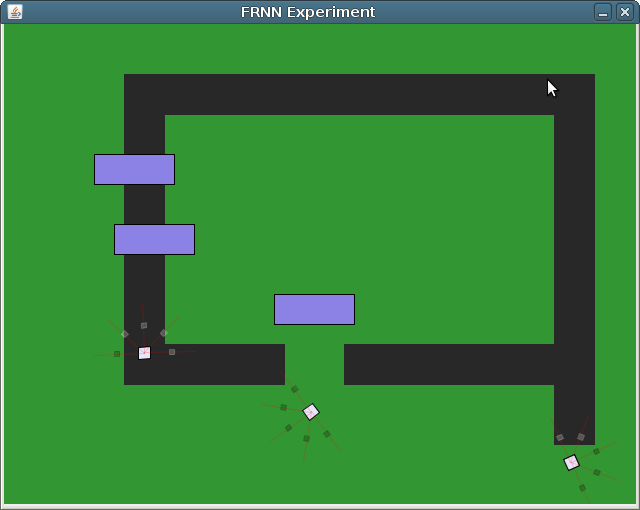
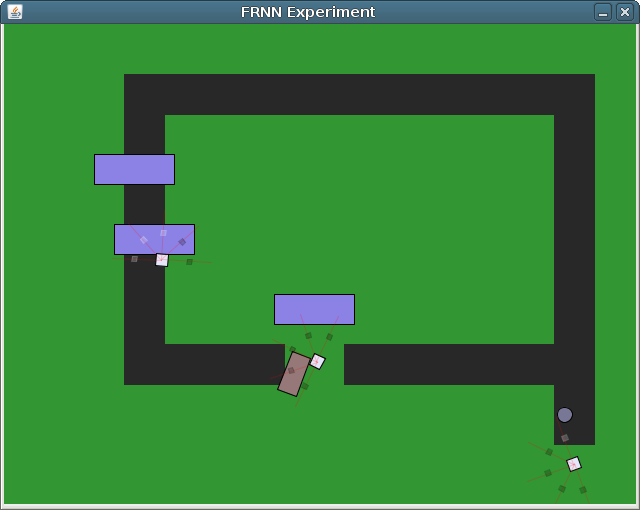
updated manual and fitness functions

diff --git a/doc/manual/introduction.tex b/doc/manual/introduction.tex
@@ -19,7 +19,7 @@ An example of usage is included. It can be executed using:
 ant run
 \end{colorverbatim}
 
-Normally, a java window appears (see Figure \ref{fig:intro}) and a simulation is loaded. The agents in the simulation are equipped with randomly generated fully connected recurrent neural networks that controll wheel movement based on sensory information. There are two types of sensors included in this simulation. The first type is the distance sensor. the second one is the surface sensor. Five instances of each sensor arecircularly distributed around the agents. 1000 iterations is performed and the program ends typing out the final fitness, which is the average speed of all agents in the simulation. The program outputs the following (fitness value varies):
+Normally, a java window appears (see Figure \ref{fig:intro}) and a simulation is loaded. The agents in the simulation are equipped with randomly generated fully connected recurrent neural networks that controll wheel movement based on sensory information. There are two types of sensors included in this simulation. The first type is the distance sensor. the second one is the surface sensor. Five instances of each sensor arecircularly distributed around the agents. 1000 iterations is performed and the program ends typing out the final fitness, which is the average speed of all agents in the simulation. The program outputs the following (fitness values may be different):
 
 
 \begin{colorverbatim}
@@ -27,15 +27,16 @@ ant run
 Buildfile: build.xml
 
 run:
-     [java] average speed fitness = 0.025355358697990823
+     [java] average speed fitness = 0.08090585578183623
+     [java] average ontop fitness = 0.031265608469645184
 \end{colorverbatim}
 
 \begin{figure}[h!]
 \centering
-\includegraphics[width=.6\textwidth]{figures/intro}
-\caption{First vivae execution. FRNNExperiment class is started, Java window appears and simulation with three agents in the arena begins. Each agent is equipped with 5 distance sensors (red lines) and 5 surface sensors (black/white) boxes.}
+\includegraphics[width=.5\textwidth]{figures/intro}
+\caption{First vivae execution. FRNNExperiment class is started, Java window appears and simulation with three agents in the arena begins. Each agent is equipped with 5 distance sensors (red lines) and 5 surface sensors (black/white) boxes. There is also two obstacles in the simulation.}
 \label{fig:intro}
 \end{figure}
 
-The experiment consists of FRNN* classes in vivae.example package. FRNNExperiment class contains the main() method. FRNNController contains the recurrent neural network and controlls the agent movement. FRNNControlledRobot class is the controlled robot itself containing the sensors. 
+The experiment consists of FRNN* classes in vivae.example package. FRNNExperiment class contains the main() method. FRNNController contains the recurrent neural network and controlls the agent movement. FRNNControlledRobot class is the controlled robot itself containing the sensors. The program outputs two fitness values. One is the average speed of the robots, the second one reflects how much have the obstacles been moved closer to tue upper edge of the arena.
 
